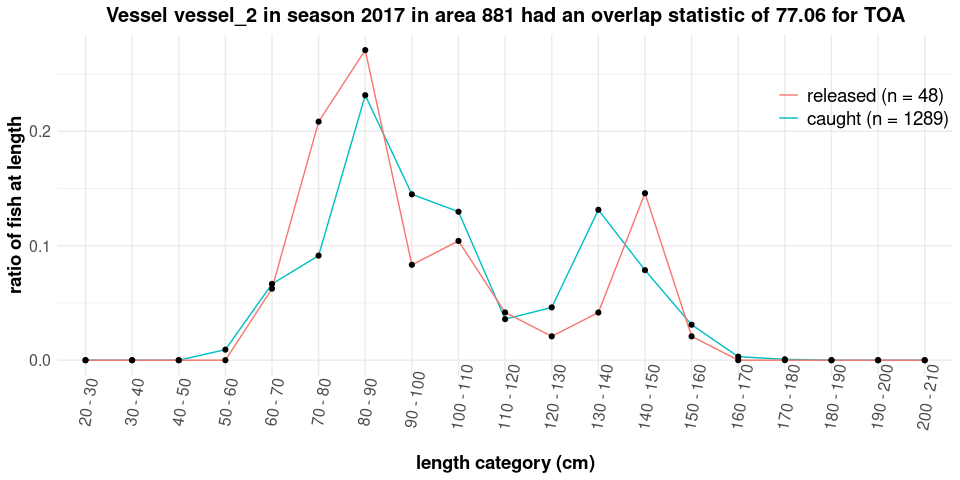
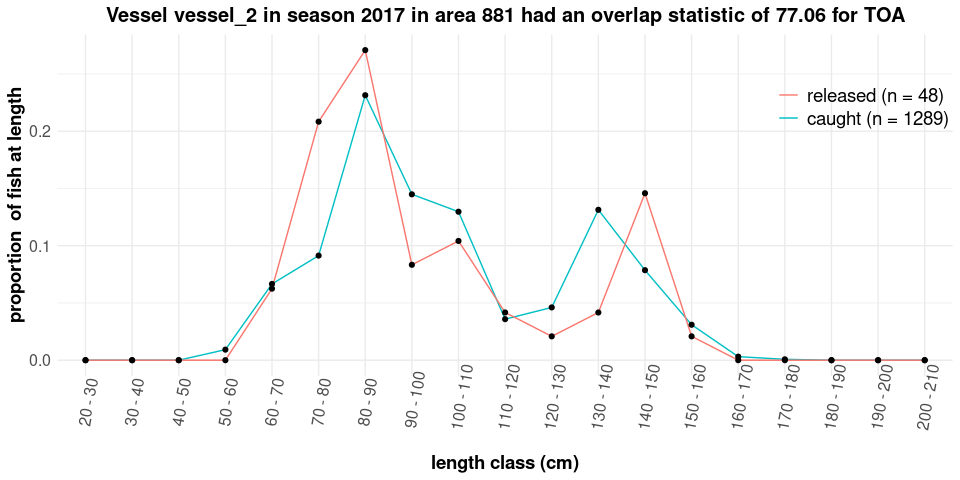
correct spelling

Changed region(s): [[0.0, 0.1875, 0.0312, 0.6875], [0.4375, 0.9375, 0.625, 1.0]]

diff --git a/README.md b/README.md
@@ -4,8 +4,9 @@
 # CCAMLRTOOLS
 
 An R package for processing and visualizing official CCAMLR data
-provided by the CCAMLR Secretariat to CCAMLR Members according to the
-Rules for Access and Use of CCAMLR data.
+provided by the CCAMLR Secretariat to CCAMLR Members following the
+procedure specified in the [Rules for Access and Use of CCAMLR
+Data](https://www.ccamlr.org/en/document/publications/rules-access-and-use-ccamlr-data).
 
 ## Installation
 
@@ -69,8 +70,8 @@ division (asd), the research block (rb) or small scale research unit
 (ssru)*), or fishing `vessels` (*name of the vessels*) for which you
 would like to calculate the tag overlap statistic.
 
-To start, lets the demo data included in the package. Alternatively if
-you received a CCAMLR data extact, you could load those data as
+To start, lets use the demo data included in the package. Alternatively
+if you received a CCAMLR data extract, you could load those data as
 explained above.
 
 ``` r
@@ -78,8 +79,8 @@ ccamlr_data <- CCAMLRTOOLS::demo_data$olap
 ```
 
 If for example you would like to calculate the tag overlap statistics
-for all vessels in during a specific fishing season during in a specific
-area (*e.g. SSRU 881A*) you can provide the following code.
+for all vessels during a specific fishing season in a specific area
+(*e.g. SSRU 881A*) use the following code.
 
 ``` r
 tag_olap(ccamlr_data = ccamlr_data, taxon = "TOA", seasons = c("2017"), areas = c("881A"))
@@ -94,9 +95,8 @@ tag_olap(ccamlr_data = ccamlr_data, taxon = "TOA", seasons = c("2017"), areas = 
 | 2017_vessel_5\_881A | 881A |   2017 | vessel_5  | CDE              | TOA   | 14         |          8.4 |     610 |         85 |        9 |            0 |      1.1 |       42.76 |
 
 If you would like to calculate the tag overlap statistics for a specific
-vessel during a specific fishing season during in a multiples areas
-(*e.g. SSRU 881A, RB 481_1 and asd 882*) you can provide the following
-code.
+vessel during a specific fishing season in a multiples areas (*e.g. SSRU
+881A, RB 481_1 and asd 882*) use the following code.
 
 ``` r
 tag_olap(ccamlr_data = ccamlr_data, taxon = "TOA", vessels = c("vessel_1"), 
@@ -110,11 +110,10 @@ tag_olap(ccamlr_data = ccamlr_data, taxon = "TOA", vessels = c("vessel_1"),
 | 2017_vessel_1\_882   | 882   |   2017 | vessel_1  | XYZ              | TOA   | 15         |          3.6 |     148 |         54 |        6 |            0 |      1.7 |       64.35 |
 
 If you would like to calculate the tag overlap statistics for a specific
-vessel during a specific fishing season during for all areas in to which
-CM 41-01 Annex C specifies a minimum overlap statistic, you can provide
-the following code. A tag overlap statistic value of NC indicates that
-no tag overlap statistic was calculated because less than 30 fish were
-tagged.
+vessel during a specific fishing season for all areas for which CM 41-01
+Annex C specifies a minimum overlap statistic, use the following code. A
+tag overlap statistic value of NC indicates that no tag overlap
+statistic was calculated because less than 30 fish were tagged.
 
 ``` r
 tag_olap(ccamlr_data = ccamlr_data, taxon = "TOP", vessels = c("vessel_2"), 
@@ -136,7 +135,7 @@ released fish.
 olap_toa <- tag_olap(ccamlr_data = ccamlr_data, taxon = "TOA", vessels = c("vessel_2"), 
                      seasons = c("2017"), areas = c("881"), plot = TRUE)
 olap_toa$summary
-plot(olap_toa$plots$`2017_vessel_2_881`)
+olap_toa$plots$`2017_vessel_2_881`
 ```
 
 | GROUP_ID           | AREA | SEASON | SHIP_NAME | NATIONALITY_CODE | TAXON | LOGBOOK_ID | CATCH_TONNES | CATCH_N | MEASURED_N | TAGGED_N | RECAPTURED_N | TAG_RATE | TAG_OVERLAP |
